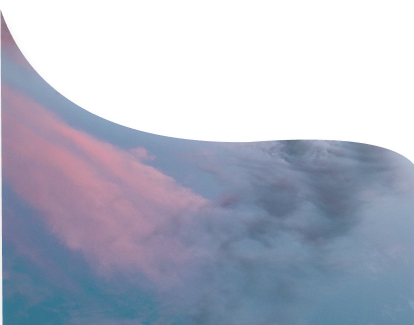
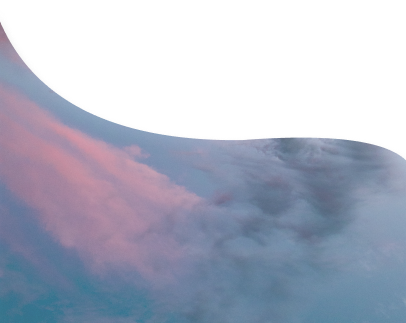
strange style mods

diff --git a/app/javascript/components/style_inject.js b/app/javascript/components/style_inject.js
@@ -1,0 +1,15 @@
+// simple form wont accept custom classes so its hard to style with CSS files.
+// this Js file will use query selectors on the simple form classes to manually inject css styles.
+// it is a temporary workaround
+
+
+const setStyles = () => {
+  // fix styling issues on new review form
+  if (window.location.pathname.match(/ratings\/new/)) {
+    const textArea = document.querySelector('.text').children[1];
+    console.log(textArea);
+    textArea.setAttribute('style', 'width: 356.86px; height: 113.63px; left: 34px; top: 426px; border-radius: 20px 60px 20px 60px;');
+  }
+}
+
+export { setStyles };

diff --git a/app/javascript/packs/application.js b/app/javascript/packs/application.js
@@ -32,8 +32,10 @@ import { DashboardChart } from "../plugins/init_chart";
 import { triggerConfirmation, triggerReminder, triggerRating, ratingRedirect } from '../plugins/notifications';
 import { tabBar } from '../plugins/tab_bar';
 import { ratingStars } from '../plugins/rating_stars';
+import { setStyles } from '../components/style_inject';
 
 document.addEventListener('turbolinks:load', () => {
+  setStyles();
   // Call your functions here, e.g:
   // only load chart on the dashboard page
   if (window.location.pathname === '/') {

diff --git a/app/assets/stylesheets/pages/_show.scss b/app/assets/stylesheets/pages/_show.scss
@@ -1,11 +1,21 @@
 .curved_background {
   mask-image: url(https://res.cloudinary.com/claidy/image/upload/v1598883588/Vector_1_sizoot.svg);
   mask-mode: alpha;
+  mask-repeat: no-repeat;
   height:438px;
+  // min-width: 100vw;
+  mask-size: cover;
+  mask-position: bottom;
    h1, p{
     text-shadow: 0px 1px 14px rgba(0,0,0,1.0);
    }
 }
 .sign-in-front {
   border: none;
+}
+
+@media (min-width: 600px) {
+  .curved_background {
+    width: 600px;
+  }
 }

diff --git a/app/assets/stylesheets/components/_footer.scss b/app/assets/stylesheets/components/_footer.scss
@@ -2,7 +2,7 @@
   background: #414A6F;
   position: fixed;
   bottom:0;
-  width: 100%;
+  width: 100vw;
   height: 76px;
   display: flex;
   align-items: center;
@@ -27,4 +27,10 @@
 }
 #mood {
   padding: 0 45px 66px 45px;
+}
+
+@media (min-width: 600px) {
+  .footer {
+    width: 600px;
+  }
 }

diff --git a/app/assets/stylesheets/application.scss b/app/assets/stylesheets/application.scss
@@ -21,3 +21,9 @@ a:hover {
   color: inherit;
   text-decoration: underline;
 }
+.mood-wizard-container {
+  max-width: 600px;
+  margin: 0 auto;
+  position: relative;
+  min-height: 100vh;
+}

diff --git a/app/assets/stylesheets/pages/_ratings.scss b/app/assets/stylesheets/pages/_ratings.scss
@@ -21,3 +21,12 @@
   padding-left: 5px;
   padding-right: 5px;
 }
+@media (min-width: 600px) {
+  .msg {
+  margin-top: -100px;
+  }
+}
+.form-control * {
+    border: 5px red;
+}
+

diff --git a/app/assets/stylesheets/pages/_sign_in_page.scss b/app/assets/stylesheets/pages/_sign_in_page.scss
@@ -40,3 +40,9 @@ margin-top: 135px;
   justify-content: center;
   width: 100%;
 }
+
+@media (min-width: 600px) {
+  .top-img, .bottom-img {
+    width: 600px;
+  }
+}

diff --git a/app/assets/stylesheets/components/_navbar.scss b/app/assets/stylesheets/components/_navbar.scss
@@ -1,5 +1,5 @@
 #navbarDropdown {
-position: absolute;
-right: 10px;
-top: 10px;
+  position: absolute;
+  right: 10px;
+  top: 10px;
 }
